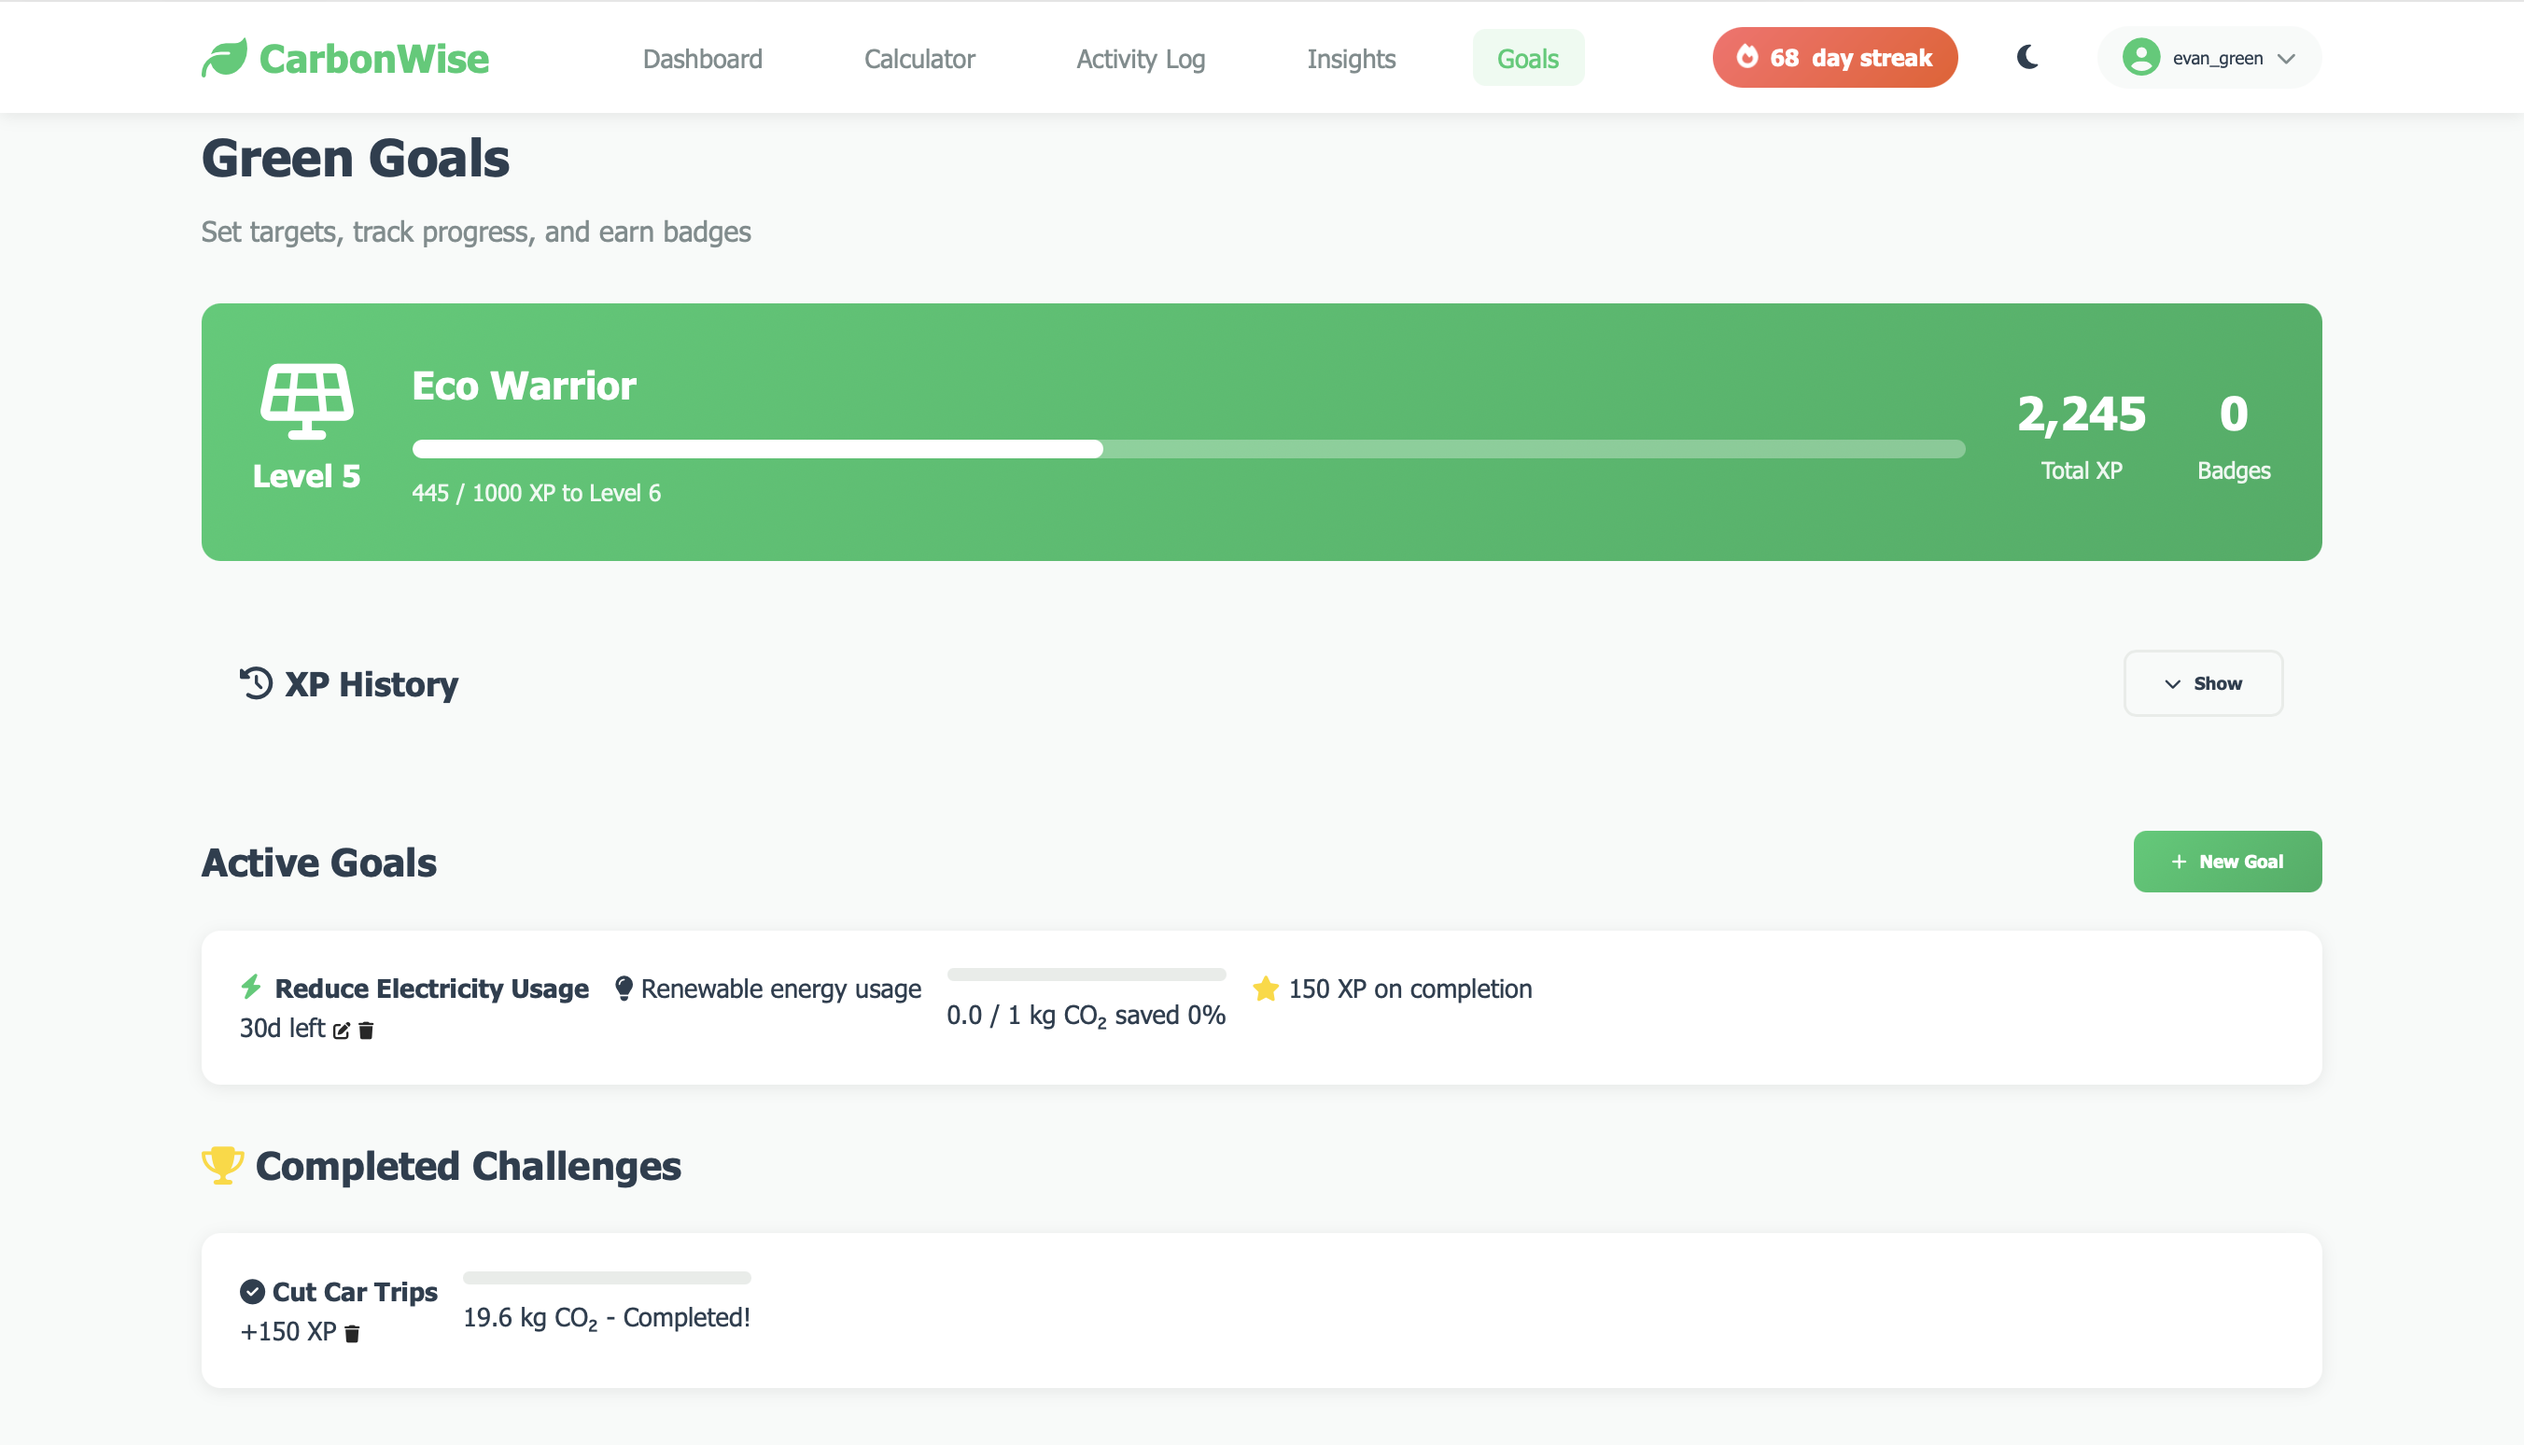
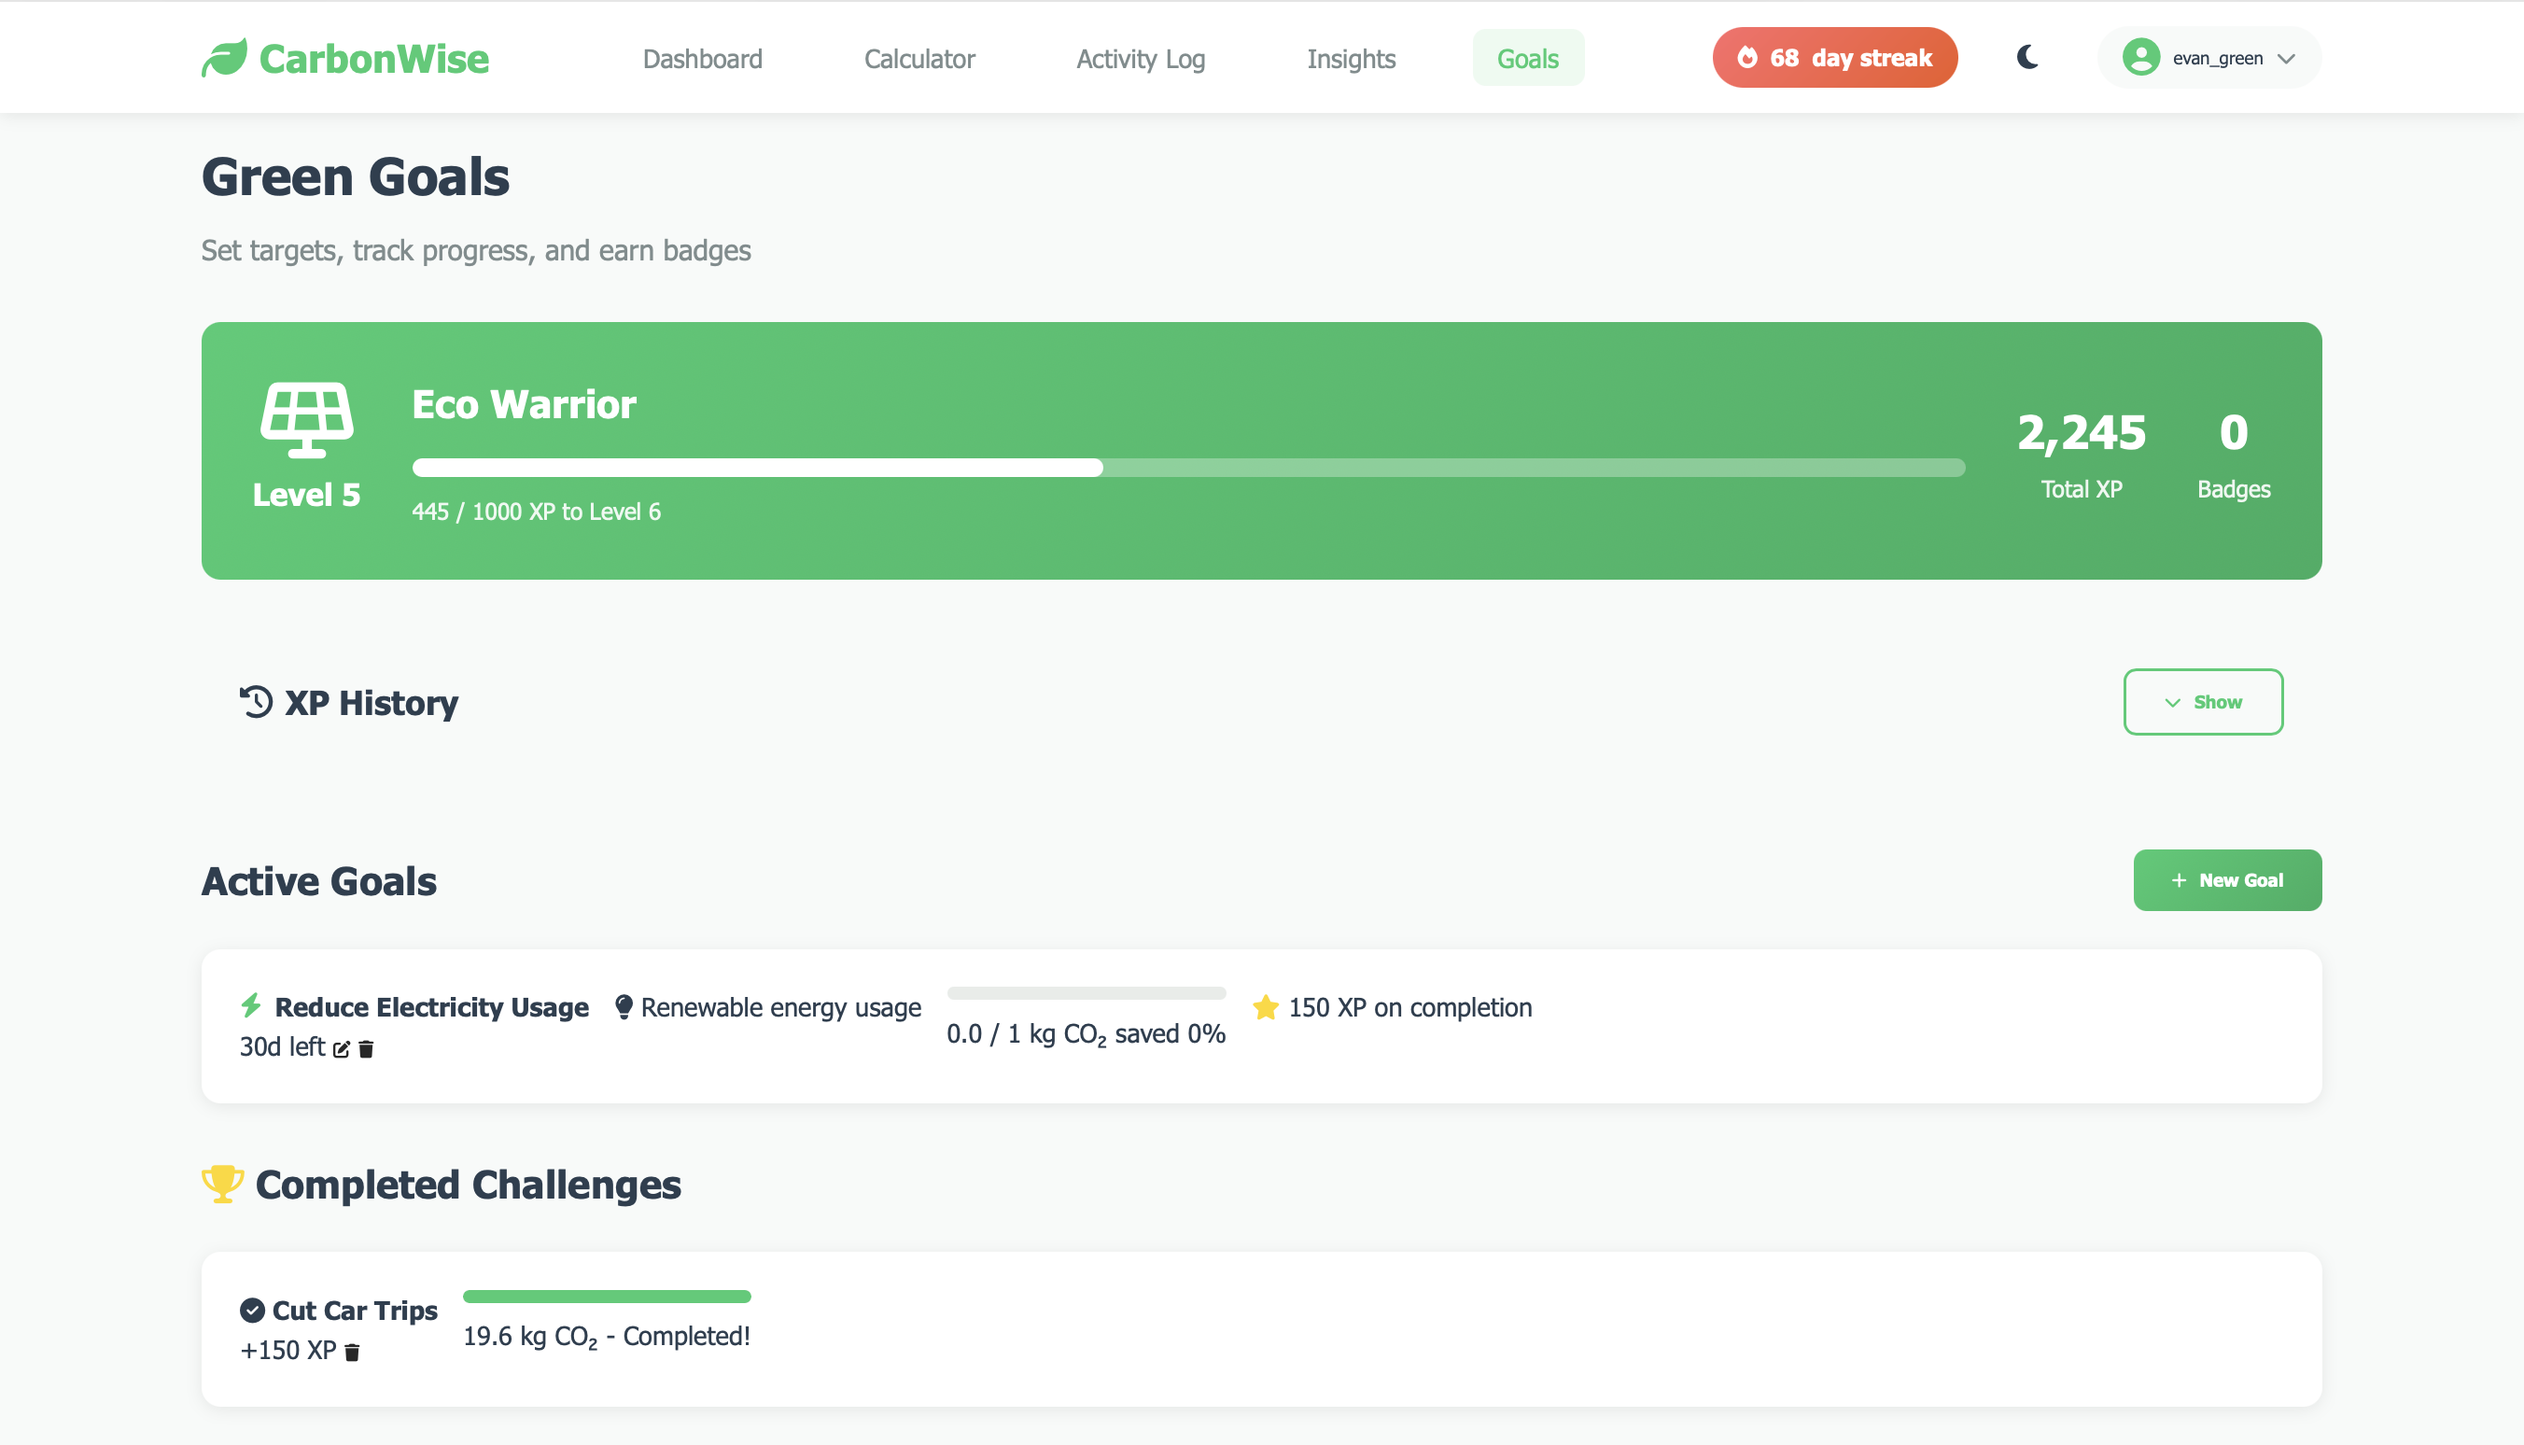
minor fixes

diff --git a/public/app.js b/public/app.js
@@ -3171,7 +3171,7 @@ function renderGoals(goals) {
                     </div>
                     <div class="goal-progress">
                         <div class="progress-bar">
-                            <div class="progress-fill" style="width: 100%; background: var(--success-green);"></div>
+                            <div class="progress-fill" style="width: 100%; background: var(--primary-green);"></div>
                         </div>
                         <div class="progress-stats">
                             <span>${goal.target_value} ${goal.type.includes('streak') ? 'days' : 'kg CO₂'} - Completed!</span>
